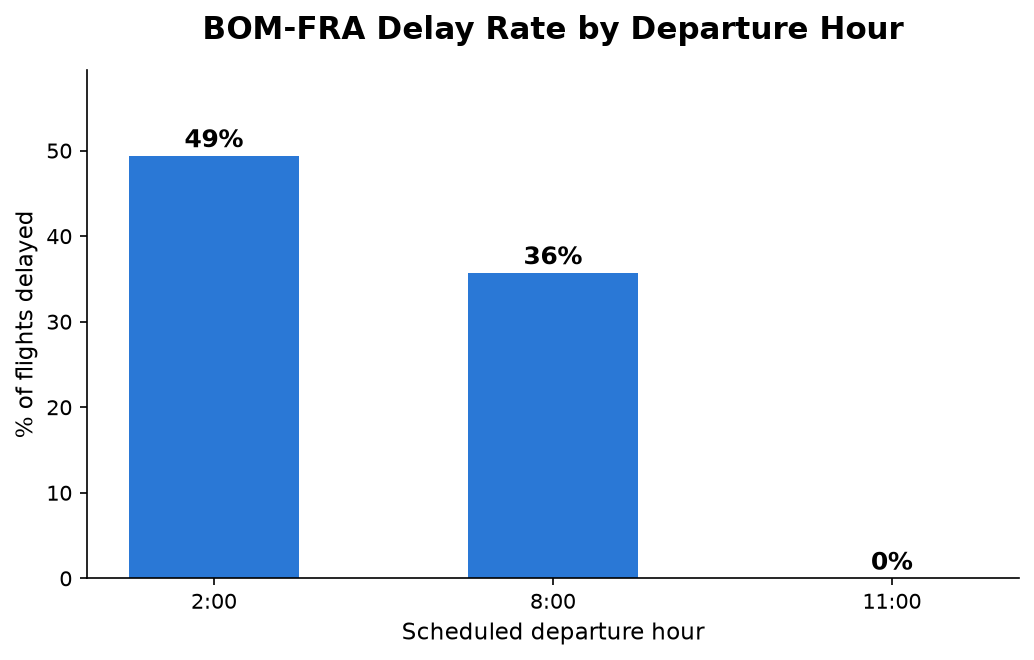
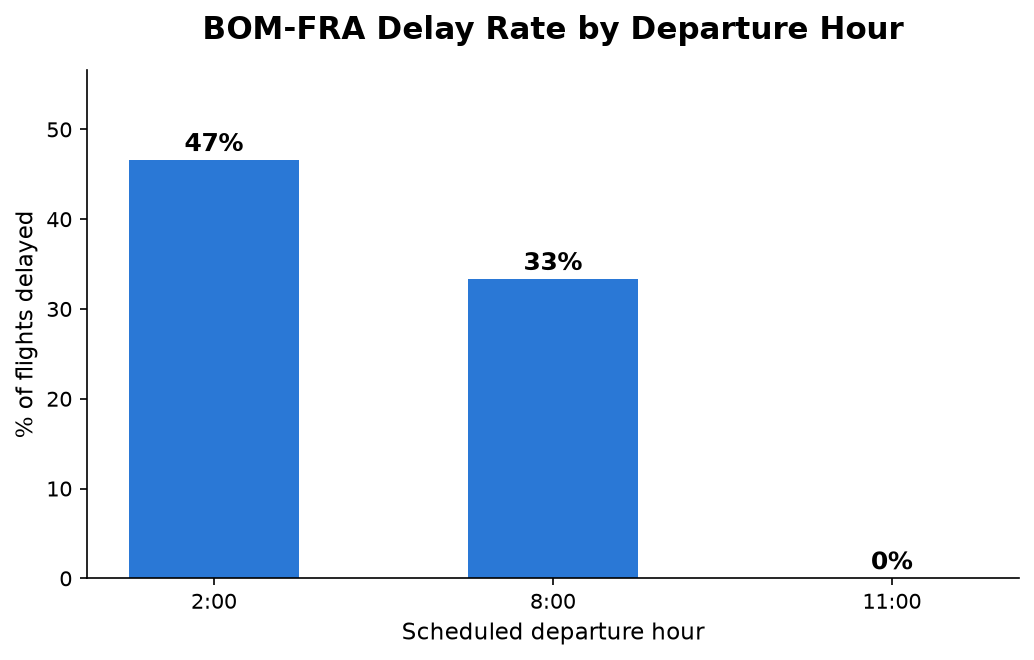
docs: KNOWLEDGE.MD update after data collection, progress log updated

diff --git a/KNOWLEDGE.md b/KNOWLEDGE.md
@@ -186,6 +186,7 @@
 | Day 19 | Not recorded | Not recorded | Continued daily collection, shape numbers not logged this day |
 | Day 20 | 350 | 603 | Continued daily collection. Pulled current model and EDA numbers for resume use (delay rate by route: BOM-FRA 33.1%, BLR-AMS 0%, DEL-CDG 5.8% at 339 flights, recall on delayed class 90% with Logistic Regression) |
 | Day 21 | 369 | 634 | Continued daily collection |
+| Day 22 | 391 | 667 | Continued daily collection |
 
 ## 24. First EDA finding: BOM-FRA is meaningfully less reliable than the other two routes
 
